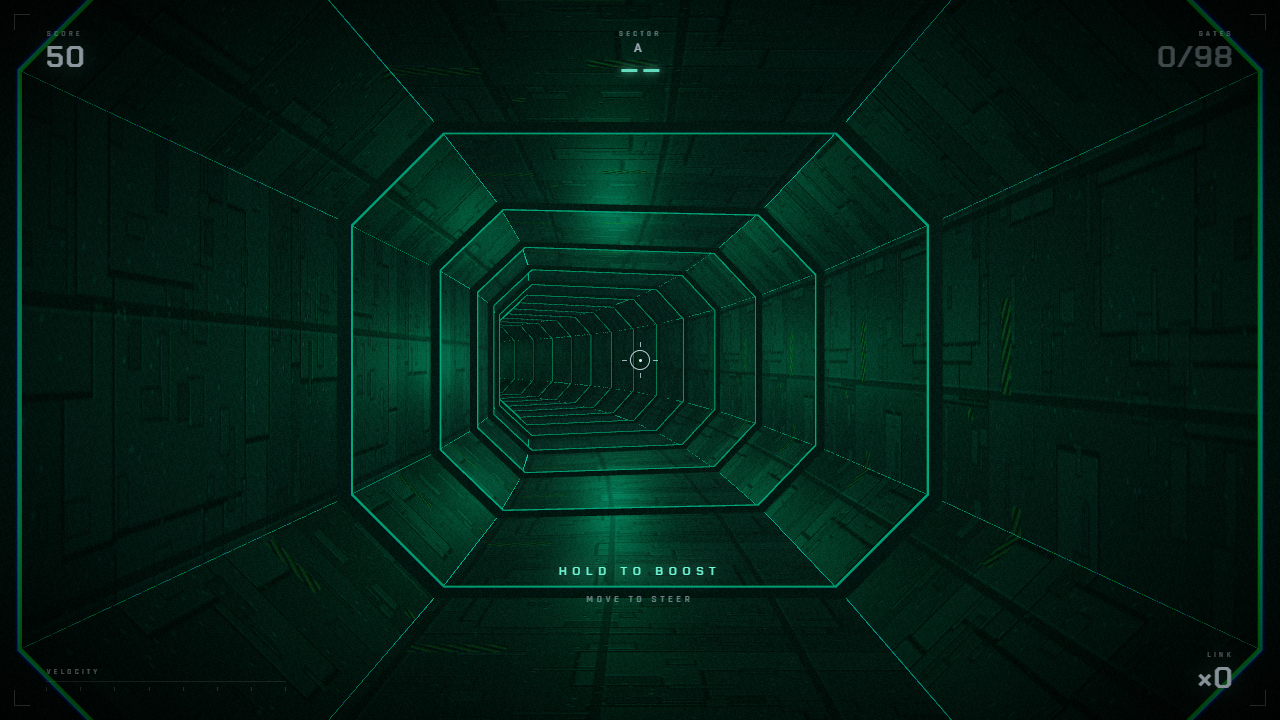
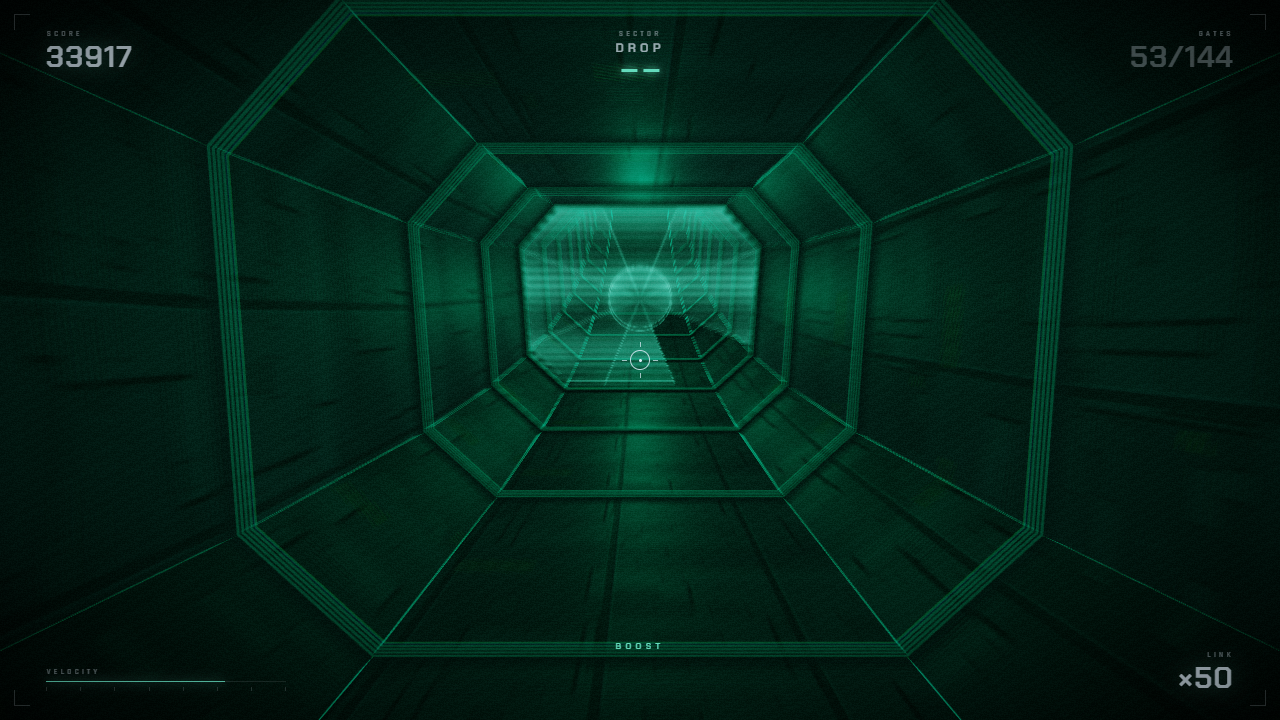
fix: black-screen bugs, escape ending, knockback, denser gates
Two separate causes of the "screen goes black until I refresh" report:

- the corridor was 4600 units long, but the song at full boost covers ~6100, so
  you could outrun the built path and end up with nothing under the camera
- the menu drifted forward for ever over a wireframe layer that only covered the
  first 240 units, so after ~30 s the title screen had nothing in it

Both fixed: corridor extended to 7000 units, menu wireframe to 380, and the menu
camera now rocks forward and back along the curve (150 +- 105 units) so it never
runs out. The menu camera also leans with the pointer now.

Ending: the run no longer stops on a wall. The last twelve beats wash the screen
to white and the results say ESCAPED.

Hits knock you back down the corridor (0.16 s on a hit, 0.85 s on death) instead
of silently continuing.

Gate spacing scaled by 1/1.5: 98 -> 144 gates.

diff --git a/js/main.js b/js/main.js
@@ -88,7 +88,8 @@ const tex = buildTextures();
 
 /* the corridor is a curve: straights joined by quarter turns */
 const UNITS_PER_BEAT = 20 * (60 / 128);
-const CORRIDOR_LEN = 200 + 448 * UNITS_PER_BEAT + 200;
+/* long enough to still have corridor under you at full boost for the whole song */
+const CORRIDOR_LEN = 7000;
 const path = buildPath(CORRIDOR_LEN);
 const tunnel = new Tunnel(tex, path);
 scene.add(tunnel.group);
@@ -168,6 +169,9 @@ const G = {
   runOver: false,
   chart: [],
   chartIndex: 0,
+  menuT: 0,
+  escape: 0,
+  recoil: 0,
   timeScale: 1,
   shake: 0,
   hitFlash: 0,
@@ -398,6 +402,7 @@ function takeHit(gate) {
 
   flash(0.9, 380, '#ff5a5a');
   shakeDom(1);
+  G.recoil = 0.16;
 
   if (G.lives <= 0) endRun('TERMINATED');
 }
@@ -407,6 +412,7 @@ function endRun(title) {
   G.runOver = true;
   G.state = State.CRASH;
   G.timeScale = 1;
+  G.recoil = title === 'ESCAPED' ? 0 : 0.85;
   audio.stop();
 
   const total = G.gatesPassed + G.hits;
@@ -425,6 +431,11 @@ function endRun(title) {
     G.state = State.OVER;
     show(elHud, false);
     show(elOver, true);
+
+    // let the white-out burn off so the results sit on the corridor again
+    elFlash.style.transition = 'opacity 900ms ease-out';
+    elFlash.style.opacity = '0';
+
     $('over-title').textContent = title || 'RUN COMPLETE';
     elOverScore.textContent = String(Math.floor(G.score));
     $('over-rank').textContent = rank;
@@ -474,12 +485,34 @@ function updateHud(force) {
 /* ------------------------------------------------------------------ *
  *  Simulation
  * ------------------------------------------------------------------ */
+function placeCamera() {
+  path.sample(G.distance, _camF);
+  camera.position.copy(_camF.p)
+    .addScaledVector(_camF.r, CAM.x * CAM_OFFSET)
+    .addScaledVector(_camF.u, CAM.y * CAM_OFFSET);
+  camera.up.copy(_camF.u);
+  _camTgt.copy(camera.position).add(_camF.f);
+  camera.lookAt(_camTgt);
+  camera.rotateZ(CAM.roll);
+  camera.updateMatrixWorld();
+}
+
 function step(dt) {
   G.time += dt;
 
   if (G.state === State.MENU) {
-    G.distance += 9 * dt;
+    // drift forward and back for ever; the camera leans with the pointer
+    G.menuT += dt;
+    G.distance = 150 + 105 * Math.sin(G.menuT * 0.085);
     G.beatLocal += dt * BPM / 60;
+
+    const dampM = 1 - Math.exp(-dt * 4.5);
+    const prevMX = CAM.x;
+    CAM.x += (CAM.tx * 0.55 - CAM.x) * dampM;
+    CAM.y += (CAM.ty * 0.55 - CAM.y) * dampM;
+    CAM.roll += ((-((CAM.x - prevMX) / Math.max(dt, 1e-4)) * 0.02) - CAM.roll) * Math.min(1, dt * 6);
+
+    placeCamera();
     tunnel.update(G.distance);
     const p = Math.pow(1 - ((G.beatLocal * 0.5) % 1), 3);
     tunnel.pulse(p * 0.15);
@@ -516,7 +549,10 @@ function step(dt) {
 
   // distance ------------------------------------------------------
   if (G.state === State.PLAY) G.distance += G.speed * sdt;
-  else G.distance += G.speed * sdt * 0.35;
+  else if (G.recoil > 0) {
+    G.recoil = Math.max(0, G.recoil - dt);
+    G.distance -= 300 * sdt;          // knocked back down the corridor
+  } else G.distance += G.speed * sdt * 0.35;
 
   // camera --------------------------------------------------------
   if (ALIGN && G.state === State.PLAY) {
@@ -536,15 +572,7 @@ function step(dt) {
   const vx = (CAM.x - prevX) / Math.max(sdt, 1e-4);
   CAM.roll += ((-vx * 0.028) - CAM.roll) * Math.min(1, sdt * 8);
 
-  path.sample(G.distance, _camF);
-  camera.position.copy(_camF.p)
-    .addScaledVector(_camF.r, CAM.x * CAM_OFFSET)
-    .addScaledVector(_camF.u, CAM.y * CAM_OFFSET);
-  camera.up.copy(_camF.u);
-  _camTgt.copy(camera.position).add(_camF.f);
-  camera.lookAt(_camTgt);
-  camera.rotateZ(CAM.roll);
-  camera.updateMatrixWorld();
+  placeCamera();
 
   // beat pulse ----------------------------------------------------
   const frac = G.beat - Math.floor(G.beat);
@@ -579,7 +607,14 @@ function step(dt) {
       const c = G.chart[G.chartIndex++];
       gates.spawn(c.beat - G.beat, G.speed, SEC_PER_BEAT, G.time, c.sector);
     }
-    if (G.beat >= SONG_BEATS + 6 && !G.runOver) endRun('RUN COMPLETE');
+    // the last stretch washes out to white: you break out into the open
+    const esc = (G.beat - (SONG_BEATS - 12)) / 12;
+    if (esc > 0) {
+      G.escape = Math.min(1, esc);
+      elFlash.style.transition = 'none';
+      elFlash.style.opacity = String(G.escape * 0.95);
+    }
+    if (G.beat >= SONG_BEATS && !G.runOver) endRun('ESCAPED');
   }
 
   // gates ---------------------------------------------------------

diff --git a/js/chart.js b/js/chart.js
@@ -15,13 +15,13 @@ export const BPM = 128;
 /* energy decides the arrangement in audio.js and the density here */
 export const SECTIONS = [
   { name: 'INTRO',  beats: 16, gap: 999, pattern: 'sweep',    energy: 0.15 },
-  { name: 'A',      beats: 80, gap: 6.0, pattern: 'step',     energy: 0.45 },
-  { name: 'B',      beats: 64, gap: 6.0, pattern: 'opposite', energy: 0.55 },
-  { name: 'BUILD',  beats: 32, gap: 4.5, pattern: 'zigzag',   energy: 0.75 },
-  { name: 'DROP',   beats: 96, gap: 3.5, pattern: 'leap',     energy: 1.00 },
-  { name: 'BREAK',  beats: 32, gap: 8.0, pattern: 'sweep',    energy: 0.30 },
-  { name: 'A2',     beats: 64, gap: 4.5, pattern: 'step',     energy: 0.65 },
-  { name: 'FINALE', beats: 64, gap: 3.5, pattern: 'leap',     energy: 1.00 },
+  { name: 'A',      beats: 80, gap: 4.0, pattern: 'step',     energy: 0.45 },
+  { name: 'B',      beats: 64, gap: 4.0, pattern: 'opposite', energy: 0.55 },
+  { name: 'BUILD',  beats: 32, gap: 3.0, pattern: 'zigzag',   energy: 0.75 },
+  { name: 'DROP',   beats: 96, gap: 2.33, pattern: 'leap',     energy: 1.00 },
+  { name: 'BREAK',  beats: 32, gap: 5.33, pattern: 'sweep',    energy: 0.30 },
+  { name: 'A2',     beats: 64, gap: 3.0, pattern: 'step',     energy: 0.65 },
+  { name: 'FINALE', beats: 64, gap: 2.33, pattern: 'leap',     energy: 1.00 },
 ];
 
 function mulberry32(a) {

diff --git a/js/tunnel.js b/js/tunnel.js
@@ -301,7 +301,7 @@ export class Tunnel {
     const seg = (a, b) => pos.push(a.x, a.y, a.z, b.x, b.y, b.z);
     const A = frame(), B = frame();
 
-    const end = Math.min(this.path.length, 240);
+    const end = Math.min(this.path.length, 380);
     const rings = [];
     for (let s = 1.0; s < end; s += TUNNEL.ring) rings.push(s);
 
